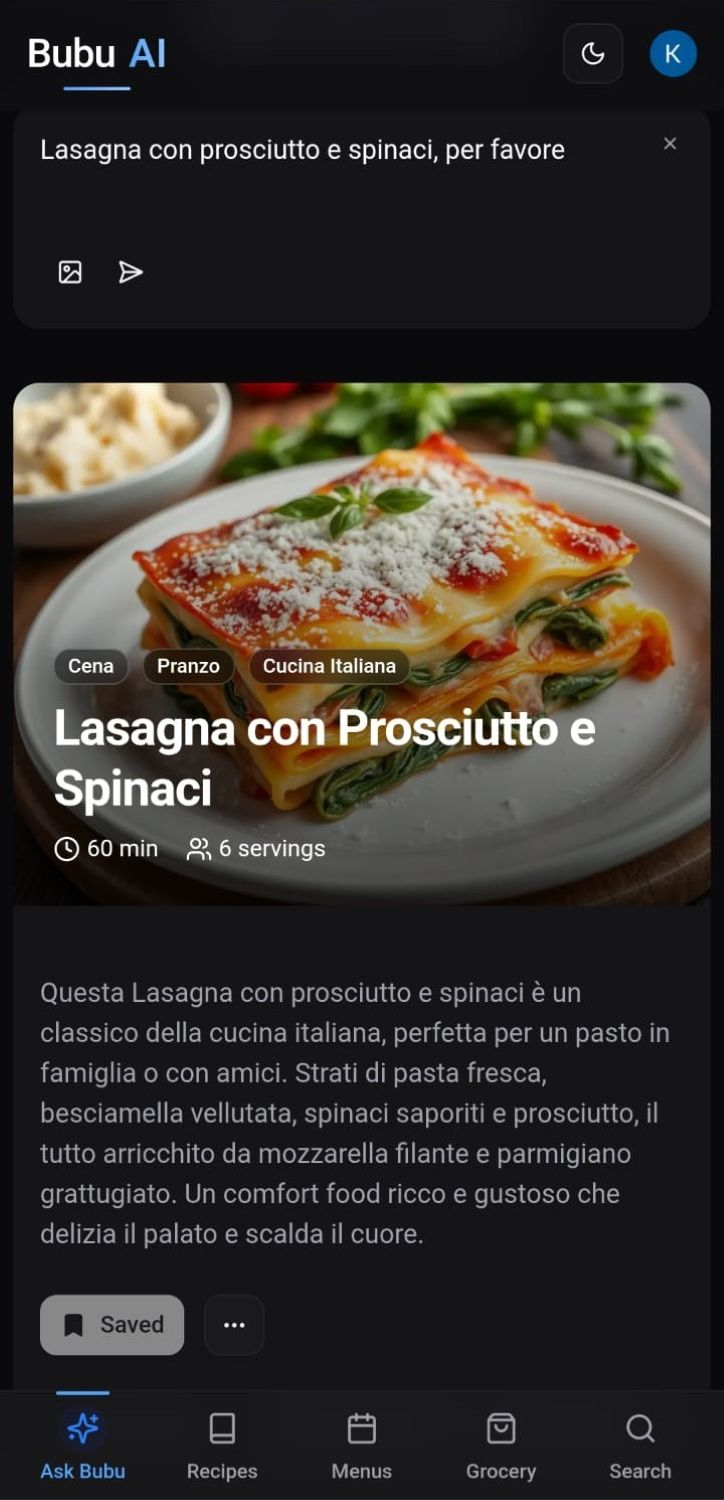
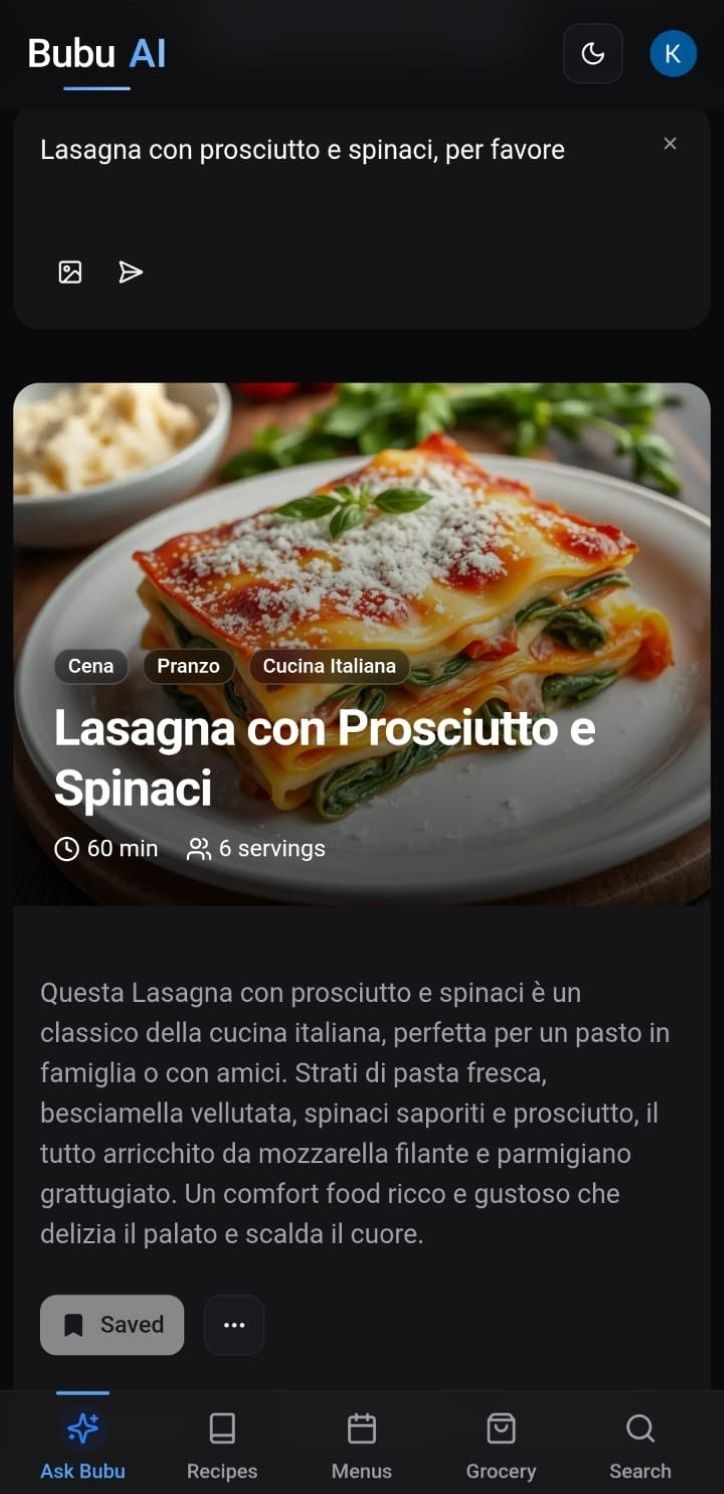
Update English recipe image file extension from .png to .jpg for consistency in Home page layout

diff --git a/app/(main)/page.tsx b/app/(main)/page.tsx
@@ -393,7 +393,7 @@ const Home = async () => {
                   <div className="w-full flex-shrink-0">
                     <div className="relative">
                       <Image
-                        src="/images/english720x1500.png"
+                        src="/images/english720x1500.jpg"
                         alt="Bubu AI generating recipe in English - Avocado and Strawberry Smoothie"
                         width={720}
                         height={1500}
@@ -435,7 +435,7 @@ const Home = async () => {
                   <div className="w-full flex-shrink-0">
                     <div className="relative">
                       <Image
-                        src="/images/english720x1500.png"
+                        src="/images/english720x1500.jpg"
                         alt="Bubu AI generating recipe in English - Avocado and Strawberry Smoothie"
                         width={720}
                         height={1500}
